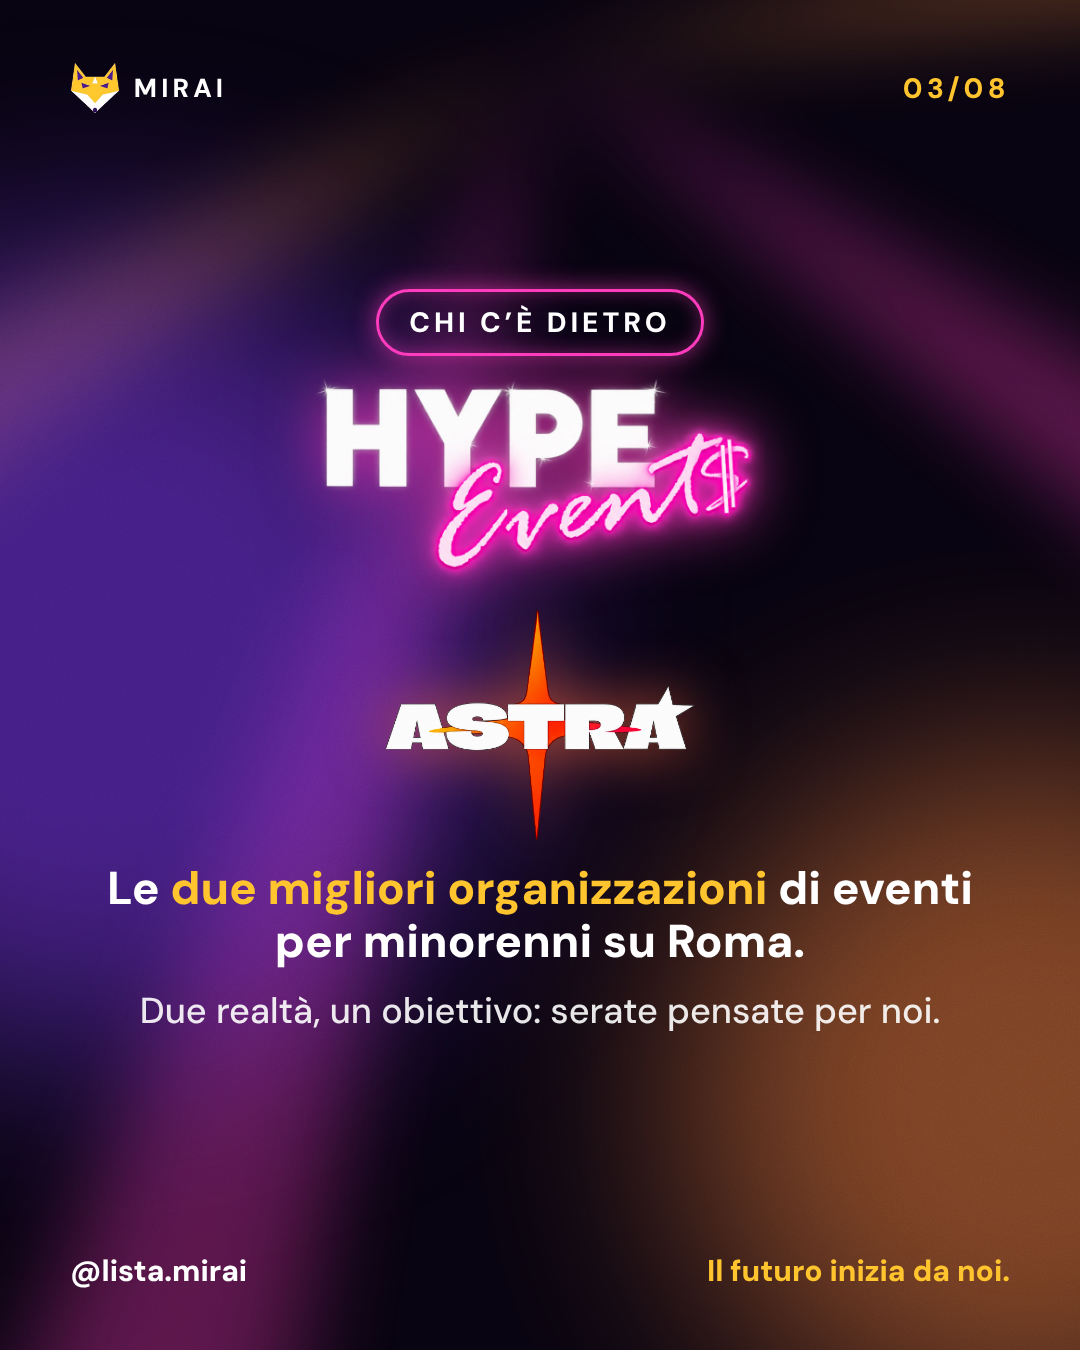
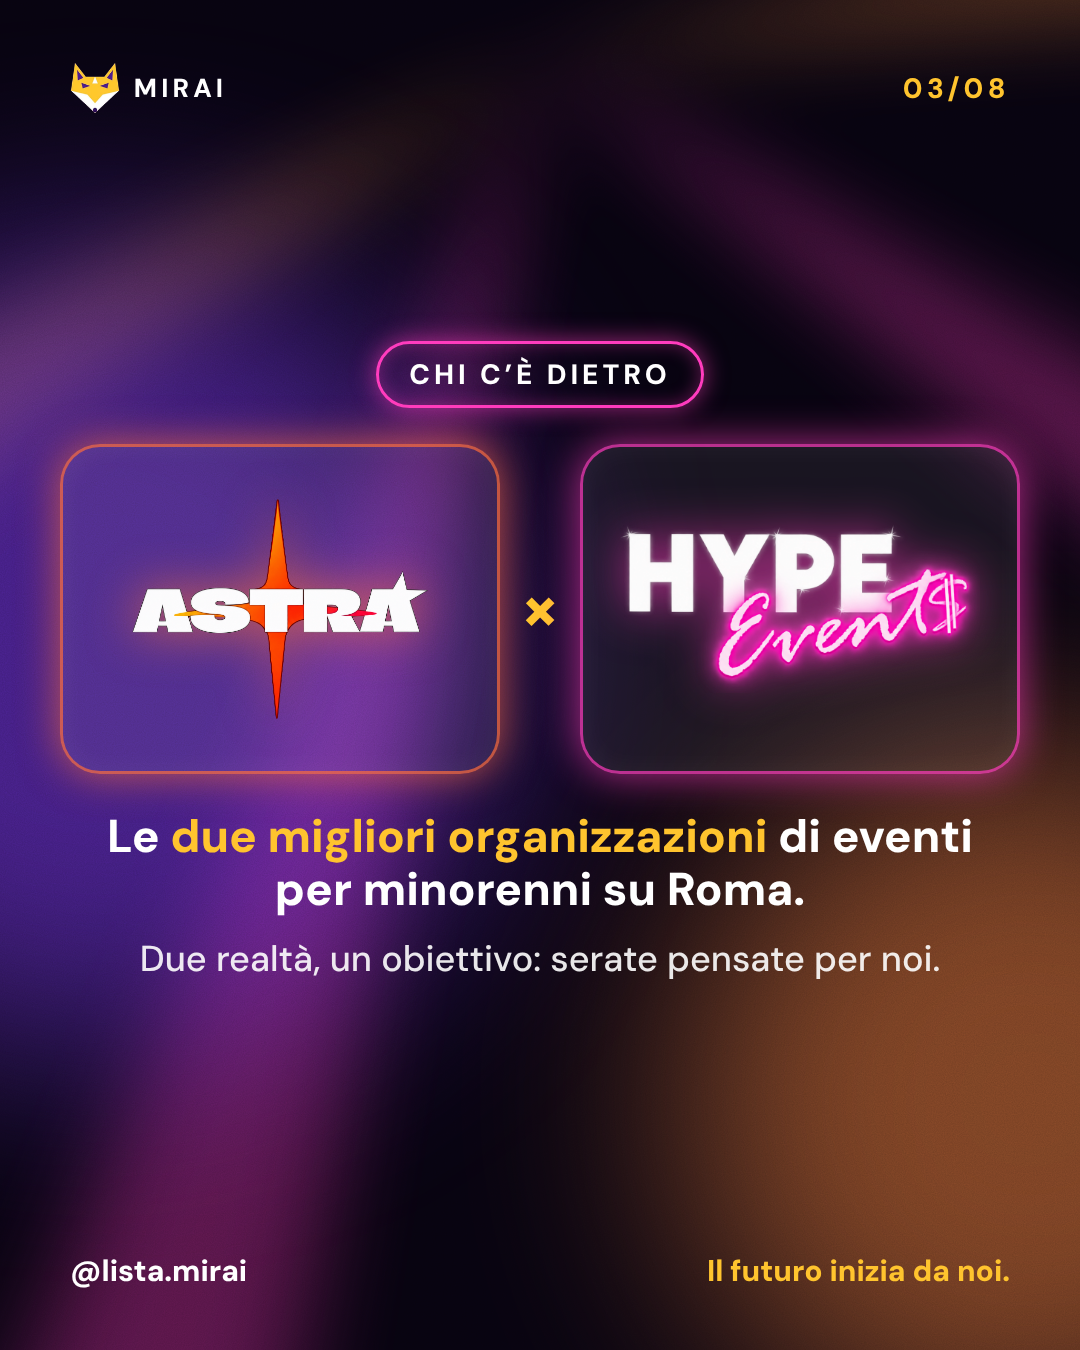
Collab neon: loghi affiancati in card (slide 3)

Changed region(s): [[0.0306, 0.1867, 0.9778, 0.7778]]

diff --git a/social/campagna/neon.html b/social/campagna/neon.html
@@ -40,8 +40,7 @@
  <div class="foot"><span>@lista.mirai</span><b>Il futuro inizia da noi.</b></div></section>
 <section class="s" id="nOrg"><div class="beam"></div><div class="glow" style="width:800px;height:800px;background:#7c3aed;left:-300px;top:250px;opacity:.5"></div><div class="glow" style="width:700px;height:700px;background:#ff8a3c;right:-300px;bottom:-100px;opacity:.45"></div><div class="brand"><img src="../../assets/fox-96.png" alt="">Mirai</div><div class="n">03/08</div>
  <div class="ctr" style="gap:22px"><span class="pill">Chi c’è dietro</span>
-  <img src="img/hype.png" style="height:210px;filter:drop-shadow(0 0 30px rgba(255,60,190,.8))">
-  <img src="img/astra.png" style="height:230px;filter:drop-shadow(0 0 30px rgba(255,110,60,.7))">
+  <div style="display:flex;align-items:center;gap:20px;margin:14px 0"><div style="width:440px;height:330px;border-radius:40px;background:rgba(255,255,255,.07);border:3px solid rgba(255,110,60,.7);box-shadow:0 0 40px rgba(255,110,60,.7),inset 0 0 30px rgba(255,255,255,.05);display:flex;align-items:center;justify-content:center"><img src="img/astra.png" style="max-width:360px;max-height:220px;object-fit:contain;filter:drop-shadow(0 0 24px rgba(255,110,60,.7))"></div><span style="font:800 70px 'DM Sans';color:#ffc42e">×</span><div style="width:440px;height:330px;border-radius:40px;background:rgba(255,255,255,.07);border:3px solid rgba(255,60,190,.7);box-shadow:0 0 40px rgba(255,60,190,.7),inset 0 0 30px rgba(255,255,255,.05);display:flex;align-items:center;justify-content:center"><img src="img/hype.png" style="max-width:360px;max-height:220px;object-fit:contain;filter:drop-shadow(0 0 24px rgba(255,60,190,.7))"></div></div>
   <div class="sub" style="font-size:46px;max-width:880px">Le <span style="color:#ffc42e">due migliori organizzazioni</span> di eventi per minorenni su Roma.</div>
   <div class="sub" style="font-size:36px;font-weight:500;max-width:820px;opacity:.9">Due realtà, un obiettivo: serate pensate per noi.</div></div><div class="foot"><span>@lista.mirai</span><b>Il futuro inizia da noi.</b></div></section>
 <section class="s" id="nMot"><div class="beam" style="transform:scaleX(-1)"></div><div class="glow" style="width:800px;height:800px;background:#ff3cbe;left:-300px;top:200px;opacity:.5"></div><div class="glow" style="width:700px;height:700px;background:#7c3aed;right:-300px;bottom:-150px;opacity:.45"></div><div class="brand"><img src="../../assets/fox-96.png" alt="">Mirai</div><div class="n">04/08</div>
